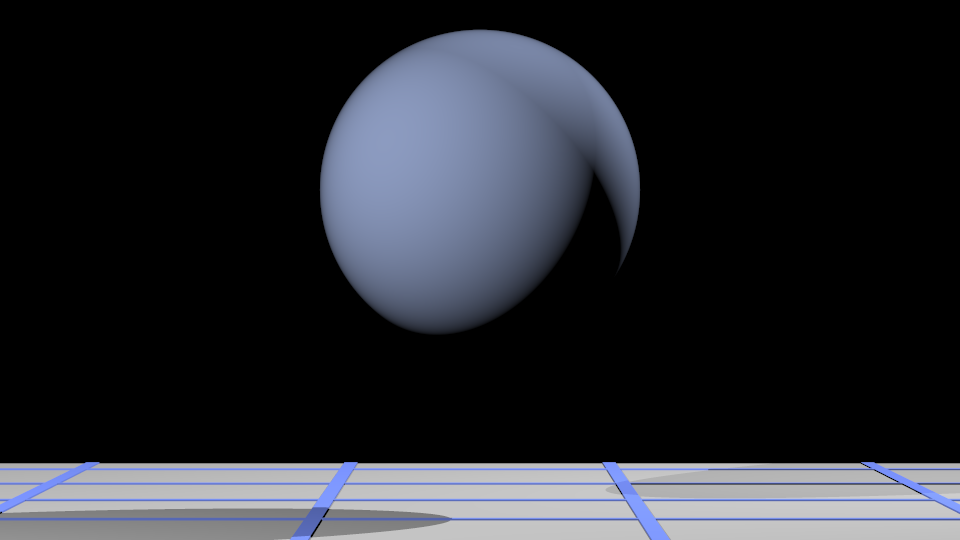
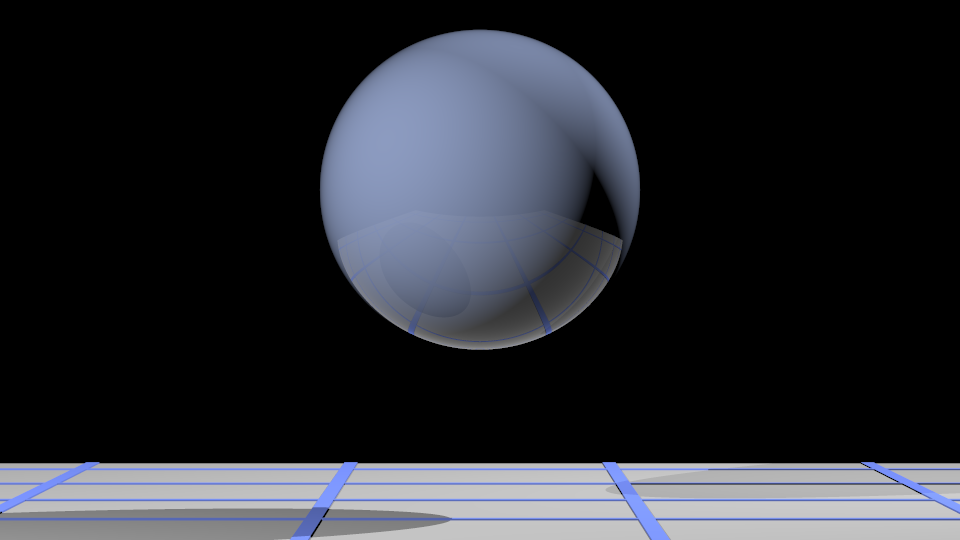
almost perfect Glazer

Changed region(s): [[0.3438, 0.4148, 0.6562, 0.6519]]

diff --git a/ray/shader/Glazed.java b/ray/shader/Glazed.java
@@ -51,6 +51,8 @@ public class Glazed extends Shader {
     	r.sub(toEye);
     	
     	Ray refRay = new Ray(record.location, r);
+    	refRay.start = Ray.EPSILON;
+    	refRay.end = 100000;
 		
 		Color outColor1 = new Color();
 		Color outColor2 = new Color();
